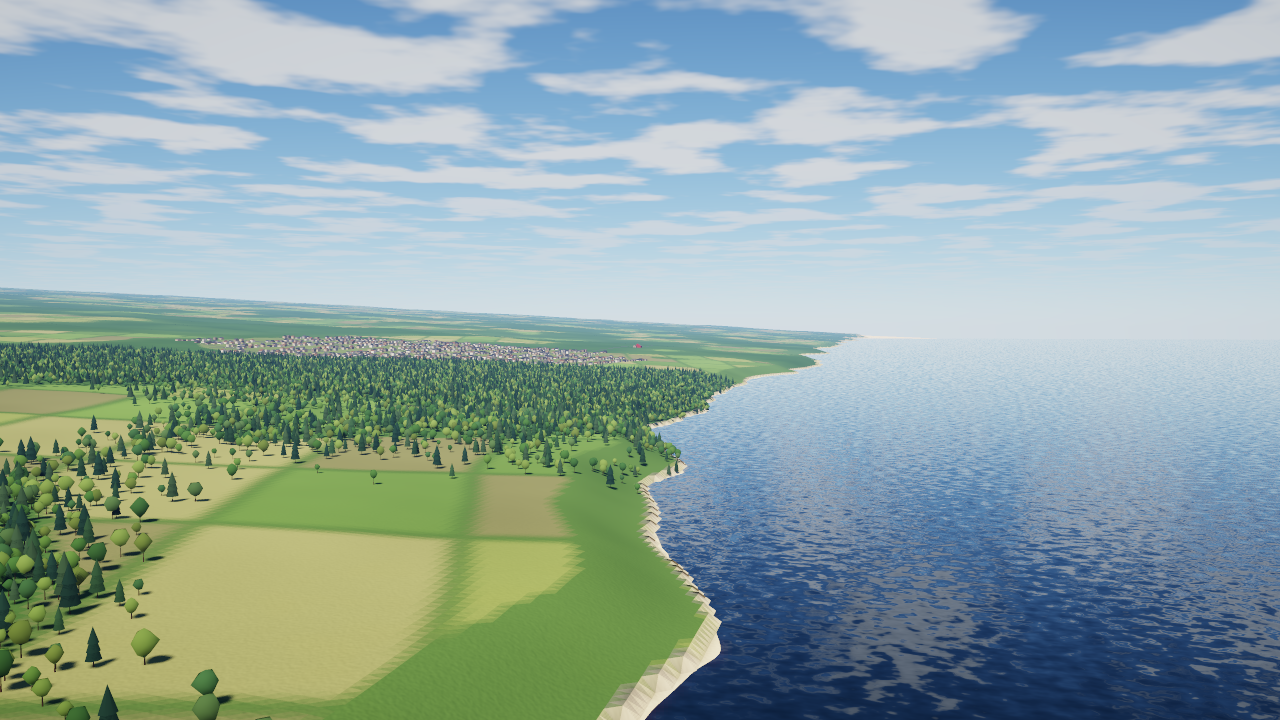
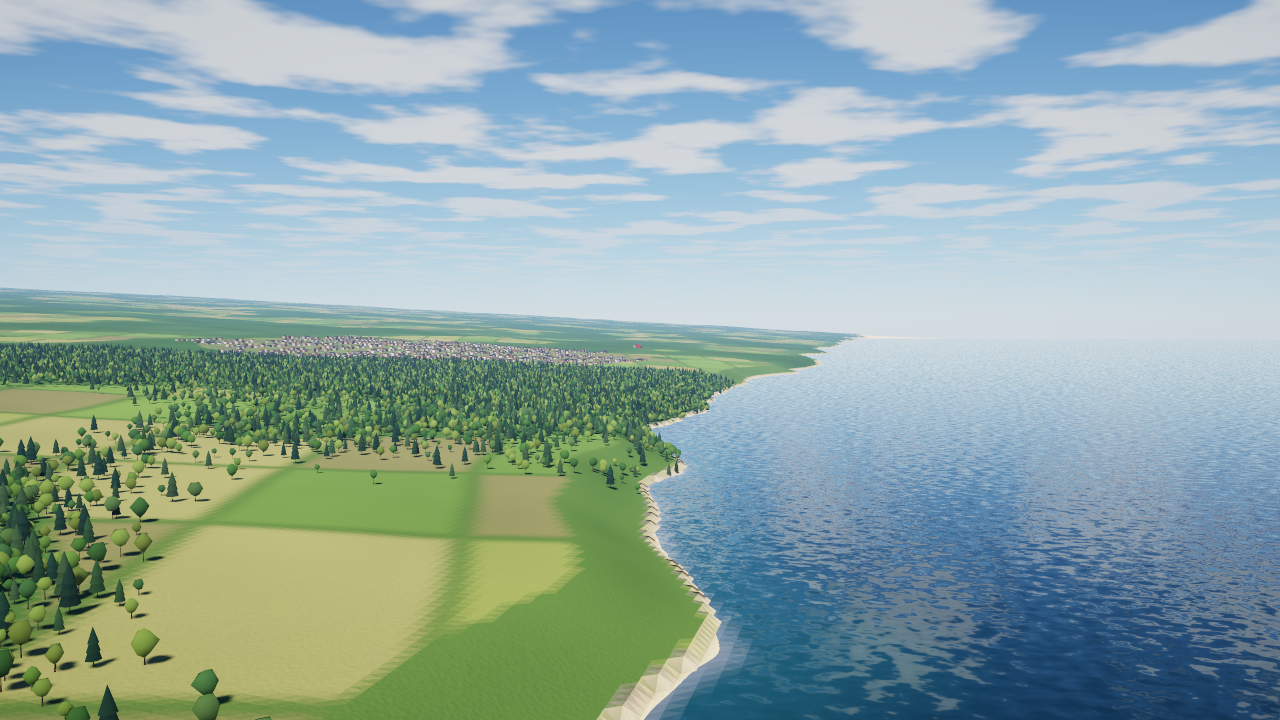
[P1.3] Shoreline water coloured by depth (foam, shallows, deep)
Claude-Session: https://claude.ai/code/session_01LuDJ4arcj2AiLQbMi9mk9u

Changed region(s): [[0.5, 0.6722, 0.75, 1.0]]

diff --git a/Packages/SkyforgeKit/Sources/SFPreview/SceneBuilder.swift b/Packages/SkyforgeKit/Sources/SFPreview/SceneBuilder.swift
@@ -162,6 +162,36 @@ public struct SceneBuilder {
         if terrain.kind == .coastline {
             let e = halfExtent * 3
             let z = terrain.seaLevel
+            // Near-shore grid with per-vertex colour by depth: foam at the waterline, turquoise
+            // shallows, then the deep colour (art review: the sea cut straight against the land).
+            let n = Int((2 * halfExtent / step).rounded())
+            let x0 = centre.x - halfExtent, y0 = centre.y - halfExtent
+            func depth(_ x: Double, _ y: Double) -> Double { z - terrain.height(x, y) }
+            func colour(_ d: Double) -> SIMD3<Float> {
+                let foam = srgb(196, 206, 204), shallow = srgb(52, 128, 126), mid = srgb(28, 82, 92)
+                if d < 0.6 { return foam + (shallow - foam) * Float(smoothstep(0.0, 0.6, d)) }
+                if d < 6 { return shallow + (mid - shallow) * Float(smoothstep(0.6, 6, d)) }
+                return mid + (deep - mid) * Float(smoothstep(6, 28, d))
+            }
+            var dgrid = [Double](repeating: 0, count: (n + 1) * (n + 1))
+            for j in 0...n { for i in 0...n { dgrid[j * (n + 1) + i] = depth(x0 + Double(i) * step, y0 + Double(j) * step) } }
+            var cells = 0
+            for j in 0..<n {
+                for i in 0..<n {
+                    let d00 = dgrid[j * (n + 1) + i], d10 = dgrid[j * (n + 1) + i + 1]
+                    let d01 = dgrid[(j + 1) * (n + 1) + i], d11 = dgrid[(j + 1) * (n + 1) + i + 1]
+                    let dmax = max(d00, d10, d01, d11), dmin = min(d00, d10, d01, d11)
+                    if dmax < -1.5 || dmin > 30 { continue }      // dry land, or deep water under the big quad
+                    let xa = x0 + Double(i) * step, ya = y0 + Double(j) * step
+                    let p00 = SIMD3(xa, ya, z + 0.02), p10 = SIMD3(xa + step, ya, z + 0.02)
+                    let p01 = SIMD3(xa, ya + step, z + 0.02), p11 = SIMD3(xa + step, ya + step, z + 0.02)
+                    let c00 = colour(d00), c10 = colour(d10), c01 = colour(d01), c11 = colour(d11)
+                    soup.add(p00, p10, p11, na: up, nb: up, nc: up, colour: (c00 + c10 + c11) / 3, material: .water)
+                    soup.add(p00, p11, p01, na: up, nb: up, nc: up, colour: (c00 + c11 + c01) / 3, material: .water)
+                    cells += 1
+                }
+            }
+            stats["shoreCells", default: 0] += cells
             let a = SIMD3(centre.x - e, centre.y - e, z), b = SIMD3(centre.x + e, centre.y - e, z)
             let c = SIMD3(centre.x + e, centre.y + e, z), d = SIMD3(centre.x - e, centre.y + e, z)
             soup.add(a, b, c, na: up, nb: up, nc: up, colour: deep, material: .water)

diff --git a/docs/VISUAL_LOG.md b/docs/VISUAL_LOG.md
@@ -116,3 +116,4 @@ Open defects (next passes): near-field ground is flat colour (needs detail textu
 - a 5.17, d 4.83, e 5.00, f 5.33, j 4.00 → **4.87** (was 4.43); n 5.67; r 5.50. Aliasing, cloud step artefacts and ground mottle confirmed fixed.
 - Remaining top fixes: smooth land-cover/water masks (stair-stepped river and field borders), per-instance tree colour variety, shoreline (beach, foam, shallow gradient, smooth cliff), slope/altitude mountain material, impostors for distant trees and towns; then an airport kit for (j), cloud multiple scattering and sun bloom, house variety.
 - Applied now: eight summer broadleaf and four conifer greens (crowns no longer one lime tone); rock from 24° and snow only below ~30° slope (peaks show grey rock faces); field parcels warped by low-frequency noise with soft hedgerow margins. Previews re-rendered.
+- Coast: near-shore water grid coloured by depth (foam at the waterline, turquoise shallows, deep blue beyond 28 m); visible as a lighter near-shore band in (e). The cliff is still faceted.

diff --git a/docs/VERIFICATION_LOG.md b/docs/VERIFICATION_LOG.md
@@ -75,3 +75,4 @@ Every gate run, CI run and manual verification. Newest at the bottom.
 - 2026-11-08T11:56:28Z gate fast on Linux x86_64: PASS (HEAD 2574a29)
 - 2026-11-08T12:01:28Z gate fast on Linux x86_64: PASS (HEAD 4ce0195)
 - 2026-11-08T12:10:10Z gate fast on Linux x86_64: PASS (HEAD 1fa781b)
+- 2026-11-08T12:13:21Z gate fast on Linux x86_64: PASS (HEAD 2fd78fd)
